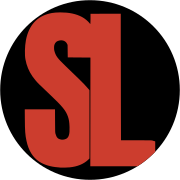
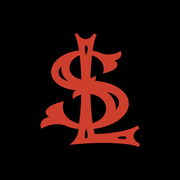
Use the real Salt Lake SL monogram.
Replace the redrawn mark with the supplied logo, rebuild the app icons from it, and bump the service worker cache to v1.2.

diff --git a/index.html b/index.html
@@ -10,7 +10,8 @@
 <meta name="apple-mobile-web-app-title" content="SL Pitch">
 <title>Salt Lake Pitch Caller</title>
 <link rel="manifest" href="manifest.webmanifest">
-<link rel="icon" href="icons/icon-192.png">
+<link rel="icon" href="icons/favicon-32.png" sizes="32x32" type="image/png">
+<link rel="icon" href="icons/icon-192.png" sizes="192x192" type="image/png">
 <link rel="apple-touch-icon" href="icons/icon-180.png">
 <style>
   /* Yellowtail (c) 2011 Brian J. Bonislawsky, Apache 2.0. See fonts/LICENSE. */
@@ -168,10 +169,7 @@
 <body>
 <header>
   <div class="brand">
-    <svg class="mark" viewBox="0 0 1024 1024" role="img" aria-label="Salt Lake">
-      <circle cx="512" cy="512" r="511" fill="#000000"/>
-      <path fill="#CC3D2E" fill-rule="evenodd" d="M345.9 953.6C345.6 953.3 338.7 952.6 330.6 952.0C288.8 949.2 249.9 937.3 222.3 919.0C186.0 894.8 162.3 855.8 150.6 801.0C143.3 766.8 141.9 746.9 141.3 675.2L140.9 622.0 L226.9 622.0L312.9 622.0 L313.2 687.8C313.5 752.3 313.6 753.7 315.8 761.4C321.7 782.6 329.9 791.0 347.4 794.1C356.3 795.6 367.2 794.0 375.7 789.9C391.4 782.4 397.1 763.3 395.6 723.0C394.6 695.1 392.4 680.8 386.6 663.7C374.9 629.4 355.6 605.8 285.0 539.0C217.6 475.2 215.8 473.4 201.6 456.5C176.6 426.7 161.2 398.6 150.7 363.5C149.4 359.0 148.2 354.1 145.0 339.0C139.6 314.1 140.9 262.5 147.6 228.0C164.1 144.2 210.4 92.9 284.0 76.5C288.1 75.6 293.3 74.5 295.5 74.0C303.7 72.2 326.0 70.5 343.0 70.5C393.1 70.5 432.8 78.9 466.0 96.4C482.5 105.0 501.4 120.8 511.1 134.0C512.3 135.6 513.7 136.7 514.2 136.4C514.7 136.1 515.0 122.9 515.0 107.2L514.9 78.5 L600.9 78.2L687.0 78.0 L687.0 223.3C687.0 303.3 687.3 465.3 687.7 583.3L688.3 798.0 L777.0 798.0C850.8 798.0 865.9 798.2 866.9 799.4C867.5 800.1 870.1 801.0 872.7 801.4C875.3 801.7 878.7 802.6 880.2 803.3L883.0 804.5 L883.0 834.1L883.0 863.7 L869.5 876.9C845.8 899.9 819.8 920.9 793.7 938.2L781.8 946.0 L647.8 946.0L513.7 946.0 L514.1 636.8L514.5 327.5 L450.0 327.0L385.5 326.5 L385.0 291.0L384.5 255.5 L381.2 248.8C374.1 234.3 358.4 227.1 340.2 230.0C323.8 232.5 314.5 240.1 309.4 255.0C307.1 261.7 306.8 279.9 308.9 287.5C317.2 318.7 325.3 329.8 373.1 375.9C388.7 391.0 406.9 408.6 413.5 415.0C420.1 421.3 436.0 436.6 448.8 449.0C471.0 470.3 490.9 491.3 503.3 506.4L509.0 513.4 L509.0 707.6L509.0 901.8 L500.5 909.8C475.7 933.3 439.9 947.8 396.3 952.1C383.0 953.4 346.8 954.5 345.9 953.6Z"/>
-    </svg>
+    <img class="mark" src="icons/sl-logo.png" width="64" height="64" alt="Salt Lake">
     <div class="brandText">
       <h1>
         <span class="team">Salt Lake</span>
@@ -267,7 +265,7 @@
 <script>
 (function(){
   "use strict";
-  var VERSION = "v1.1";
+  var VERSION = "v1.2";
   var PITCHES = [
     {id:"fastball", label:"Fastball", say:"Fastball"},
     {id:"curveball", label:"Curveball", say:"Curveball"},

diff --git a/sw.js b/sw.js
@@ -1,9 +1,11 @@
-const CACHE = "pitchcaller-v1.1";
+const CACHE = "pitchcaller-v1.2";
 const ASSETS = [
   "./",
   "index.html",
   "manifest.webmanifest",
   "fonts/yellowtail-latin.woff2",
+  "icons/sl-logo.png",
+  "icons/favicon-32.png",
   "icons/icon-180.png",
   "icons/icon-192.png",
   "icons/icon-512.png",
